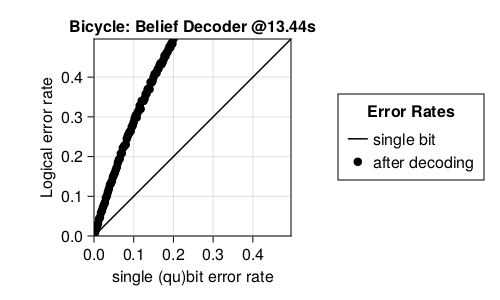
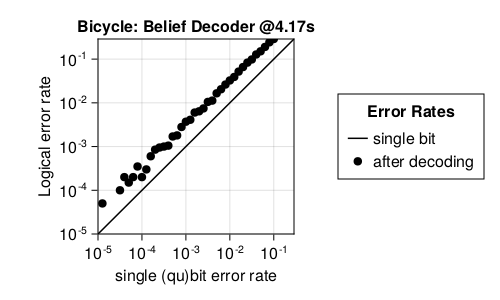
added log-log benchmark plots

diff --git a/docs/codes/Steane-7.md b/docs/codes/Steane-7.md
@@ -6,35 +6,35 @@
 
 ## Example
 Code Tableau:
-```
 ___XXXX
 _XX__XX
 X_X_X_X
 ___ZZZZ
 _ZZ__ZZ
 Z_Z_Z_Z
-```
-
 - Number of qubits: N = 7
 - Number of encoded bits: k = 1
 ### Syndrome Circuit:
 ![Steane-7 Syndrome Circuit](images/codeplots/Steane-7-codeplot.png)
 
 ## Benchmarking Results
+
 This code was tested with the following decoders:
-**Lookup table:** Ran in 0.3263s
+
+**Lookup table:** Ran in 1.226s
+
 ![Steane-7 Truth Table PP](images\performanceplots\Steane-7-lookuptable.png)
 
-**Belief decoder:** Ran in 7.398s
+**Belief decoder:** Ran in 2.388s
 
-![Steane-7 Belief Decoder PP](images\performanceplots\Steane-7-beliefa.png)
+![Steane-7 Belief Decoder PP](images\performanceplots\Steane-7-belief.png)
 
-##
+## 
 
-## QASM Downloads
-[Encoding Circuit](QASMDownloads\\Steane-7-encodingCircuit.qasm)
+## ## QASM Downloads
+[QASM Encoding Circuit](QASMDownloads\Steane-7-encodingCircuit.qasm)
 
-## Similar Codes
+## Similar Codes 
 - **[Shor-9](https://math.mit.edu/~shor/papers/good-codes.pdf)**: Degenerate CSS code designed to account for parity errors
 
 ## References

diff --git a/docs/codes/Bicycle.md b/docs/codes/Bicycle.md
@@ -7,32 +7,33 @@
 
 ## Example
 Code Tableau:
-```
 XX_XX_X
 X__XXX_
 ZZ_ZZ_Z
 Z__ZZZ_
-```
-
 - Number of qubits: N = 7
 - Number of encoded bits: k = 3
 ### Syndrome Circuit:
 ![Bicycle Syndrome Circuit](images/codeplots/Bicycle-codeplot.png)
 
 ## Benchmarking Results
+
 This code was tested with the following decoders:
-**Lookup table:** Ran in 0.4039s
+
+**Lookup table:** Ran in 1.075s
+
 ![Bicycle Truth Table PP](images\performanceplots\Bicycle-lookuptable.png)
-**Belief decoder:** Ran in 13.44s
-![Bicycle Belief Decoder PP](images\performanceplots\Bicycle-beliefa.png)
 
+**Belief decoder:** Ran in 4.17s
 
-##
+![Bicycle Belief Decoder PP](images\performanceplots\Bicycle-belief.png)
 
-## QASM Downloads
-[Encoding Circuit](QASMDownloads\\Bicycle-encodingCircuit.qasm)
+## 
 
-## Similar Codes
+## ## QASM Downloads
+[QASM Encoding Circuit](QASMDownloads\Bicycle-encodingCircuit.qasm)
+
+## Similar Codes 
 - **[Unicycle Codes](https://arxiv.org/abs/quant-ph/0304161)**: Circulant code based on perfect difference sets
 
 ## References
